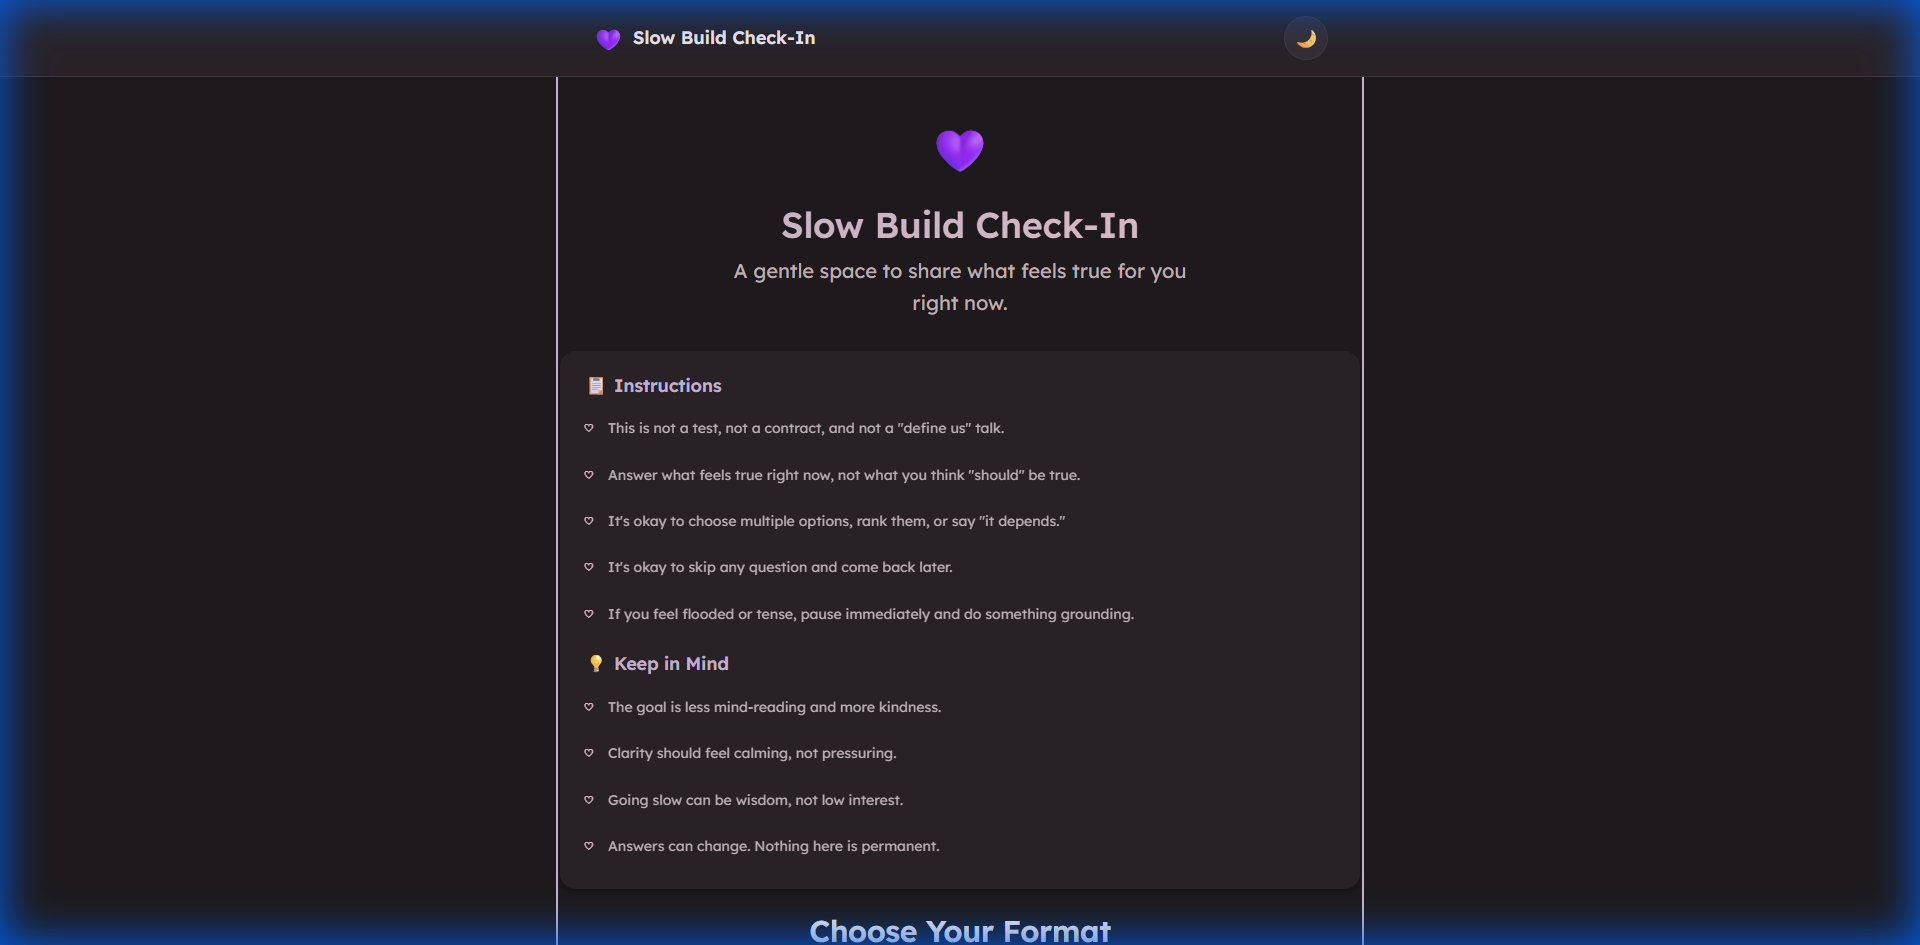
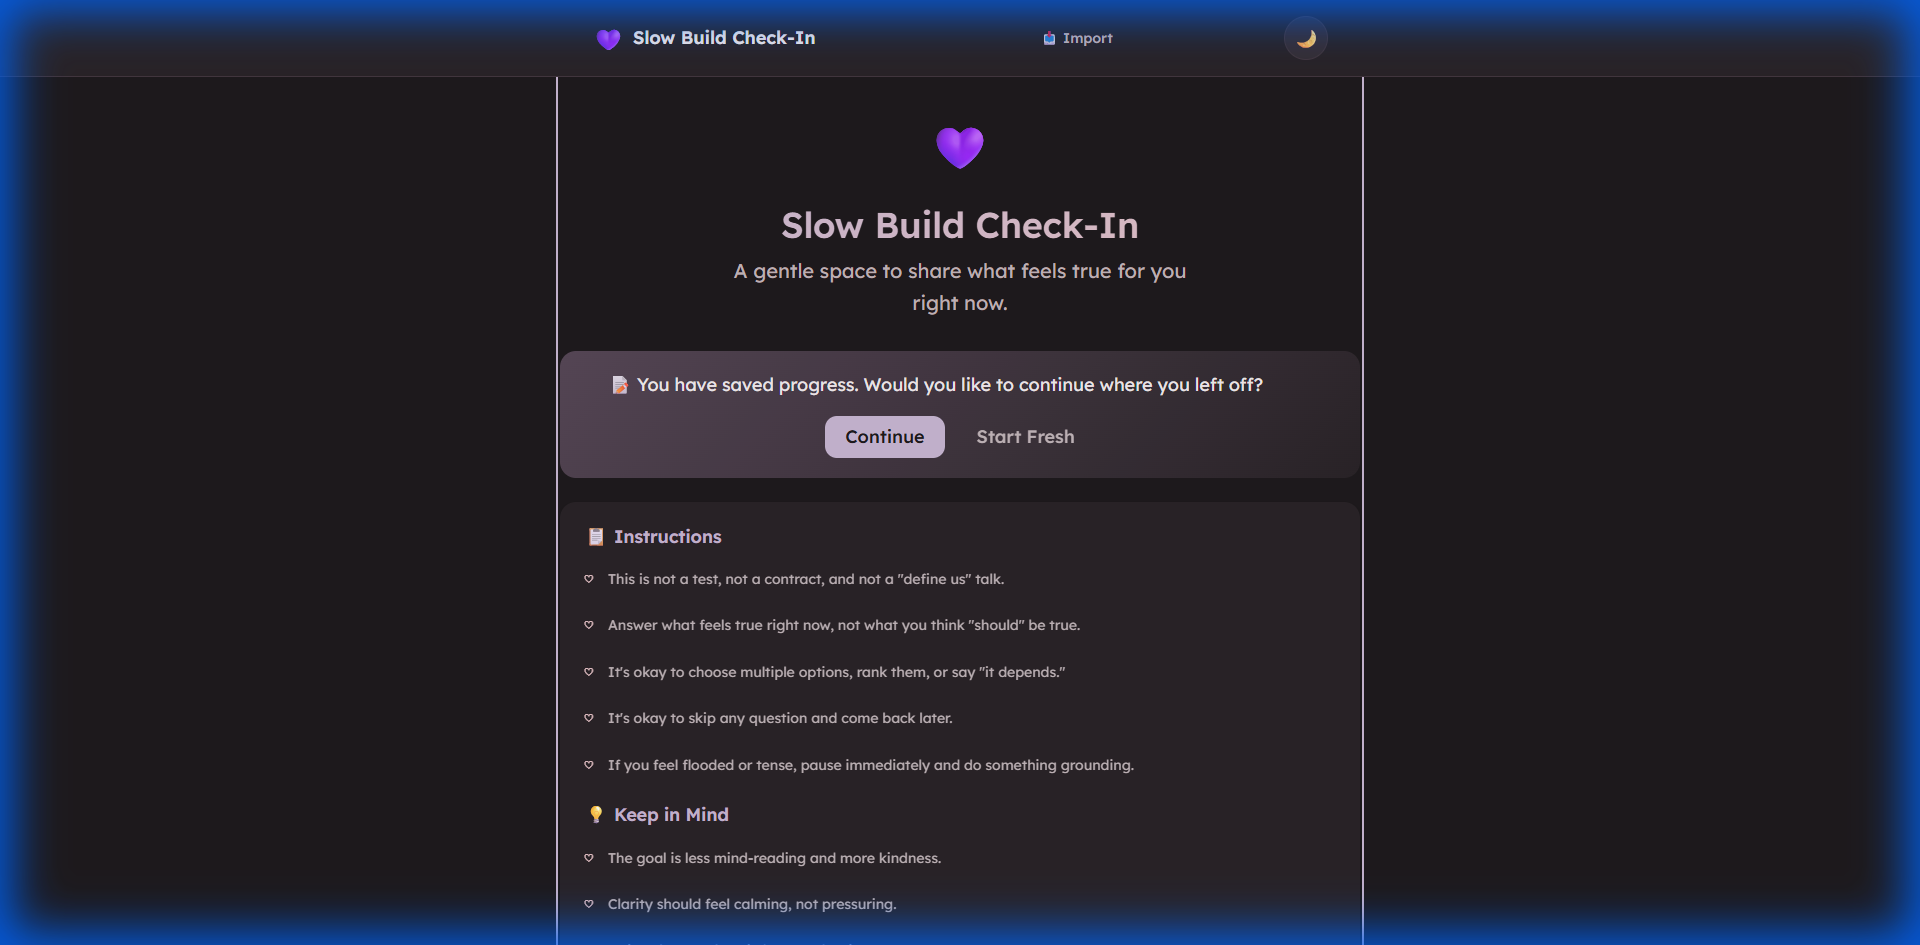
updated readme

diff --git a/README.md b/README.md
@@ -78,6 +78,16 @@ Click the theme icon in the nav to cycle through themes with a smooth bloom tran
 |------------|--------------|
 | ![Warm](assets/images/theme_warm.png) | ![Nature](assets/images/theme_nature.png) |
 
+**Questionnaire View:**
+
+| Light Theme | Dark Theme |
+|-------------|------------|
+| ![Questionnaire Light](assets/images/questionnaire_light.png) | ![Questionnaire Dark](assets/images/questionnaire_dark.png) |
+
+**Theme Transition Animation:**
+
+![Theme Demo](assets/images/theme_demo.webp)
+
 </details>
 
 ---
@@ -110,11 +120,16 @@ Click the theme icon in the nav to cycle through themes with a smooth bloom tran
 - **Persists for weeks** until you click "Start Over" or clear browser data
 - Works across Chrome, Firefox, Safari, Edge
 
-### 📥 Import Previous Responses
+### 📂 Advanced Import System
 
-- Import from previously exported JSON or TXT files
-- Merges with existing answers (imported wins conflicts)
-- Great for continuing on a different device
+Two import modes (click **📥 Import** in nav or welcome screen):
+
+- **Continue Questionnaire**: Resume from saved JSON file
+- **Generate AI Prompt**: Create reflection prompts from any saved results
+  - Upload one file for individual reflection
+  - Upload two files for couple's joint prompt
+- Smart parsing handles both JSON and TXT export formats
+- Questions are flagged for review after import
 
 ### 📤 Export Options
 
@@ -125,8 +140,32 @@ Click the theme icon in the nav to cycle through themes with a smooth bloom tran
 
 ### 🤖 AI Reflection Prompts
 
-- **Individual**: Copy your responses + a reflection prompt
-- **Couple's**: Share results, then combine for joint AI reflection
+**Four specialized prompt types:**
+
+| Type | Description |
+|------|-------------|
+| Individual Lite | Personal insights from 18 core questions |
+| Individual Full | Comprehensive relational blueprint from all 38 questions |
+| Couple's Lite | How to show up for each other (both completed Lite) |
+| Couple's Full | Complete relationship blueprint with conflict protocols |
+
+**Two workflows:**
+
+1. **During Questionnaire**: Copy prompts from the Complete view
+2. **From Saved Files**: Import any exported results via the Import modal
+
+### 💑 Couple's Reflection Workflow
+
+1. Each partner completes the questionnaire separately
+2. **Copy My Results**: Each person copies their formatted responses
+3. **Copy Couple's Prompt**: Get the AI template that accepts both responses
+4. Paste both sets of results into the prompt for joint AI reflection
+
+### 🚀 Upgrade to Full Mode
+
+- Shown after completing Lite mode
+- Click **📈 Continue to Full Mode** to add 20 more questions
+- All existing answers are preserved
 
 ### 🔄 Start Over
 
@@ -274,7 +313,9 @@ dating_questionnaire/
 │   ├── theme-manager.js        # Theme switching + transitions
 │   ├── question-renderer.js    # Question type rendering
 │   ├── questionnaire-engine.js # Navigation, state machine
-│   └── export-manager.js       # Export functionality
+│   ├── export-manager.js       # Export functionality
+│   ├── import-manager.js       # File import and parsing
+│   └── debug-overlay.js        # Debug mode (?debug=true)
 │
 └── assets/
     └── images/                 # Screenshots and demos
@@ -290,6 +331,37 @@ dating_questionnaire/
 | `←` | Previous question |
 | `S` | Skip current question |
 | `R` | Open review mode |
+
+---
+
+## 🐛 Debug Mode
+
+For developers and troubleshooting. Append `?debug=true` to the URL to enable debug mode.
+
+**How to use:**
+
+1. Navigate to `http://localhost:8080/?debug=true` (or add `?debug=true` to any URL)
+2. A **🐛 bug button** appears in the **bottom-right corner** of the screen
+3. Click the button or press `Ctrl+D` to show/hide the debug overlay
+
+**Debug overlay features:**
+
+| Feature | Description |
+|---------|-------------|
+| **Question Info** | Shows current question ID, type, and title |
+| **Raw Response JSON** | Displays the exact data structure being saved |
+| **Field Status** | For compound questions, shows ✓/✗ for each field |
+| **Import Warnings** | Highlights questions that need review after import |
+| **Copy Button** | 📋 Copies response JSON to clipboard |
+
+**Keyboard shortcut:** `Ctrl+D` toggles the overlay visibility at any time (when debug mode is enabled).
+
+<details>
+<summary>📸 Debug Overlay Screenshot</summary>
+
+![Debug Overlay](assets/images/debug_overlay.png)
+
+</details>
 
 ---
 
